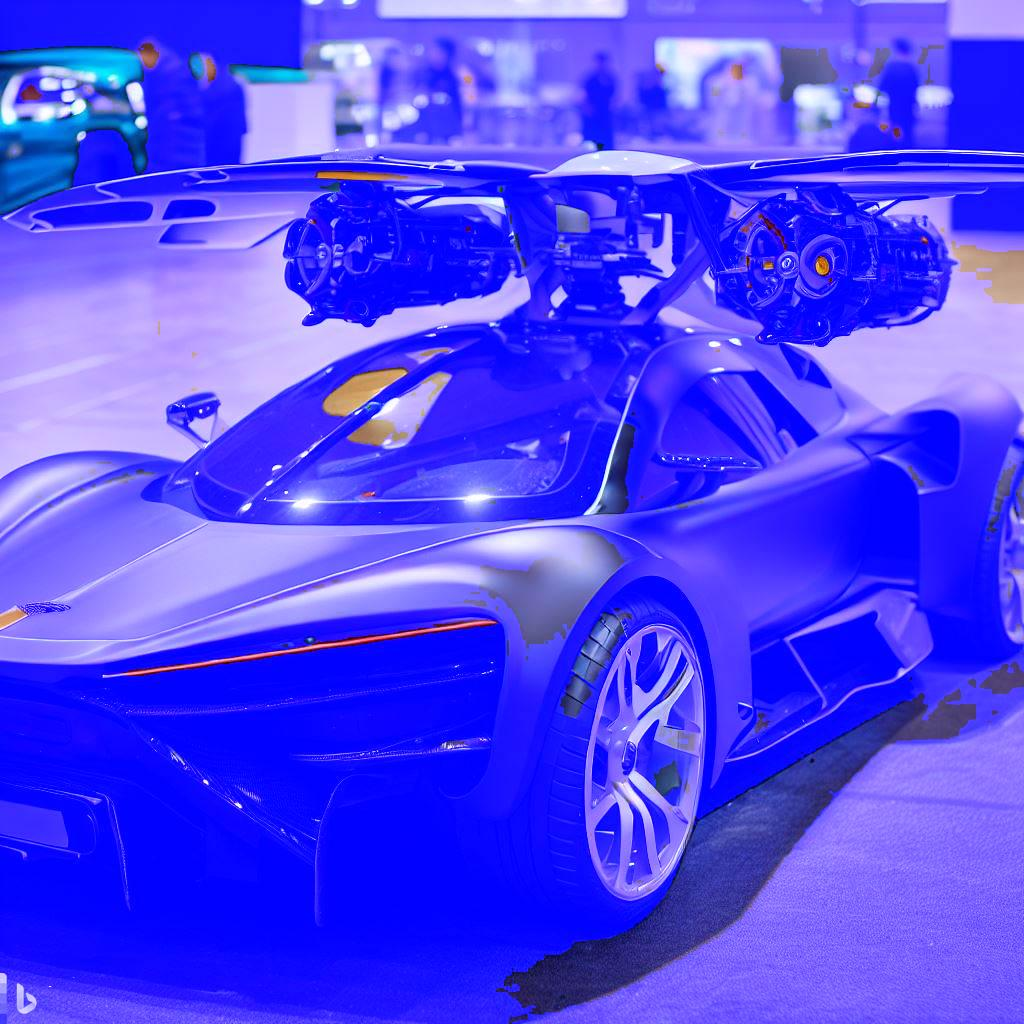
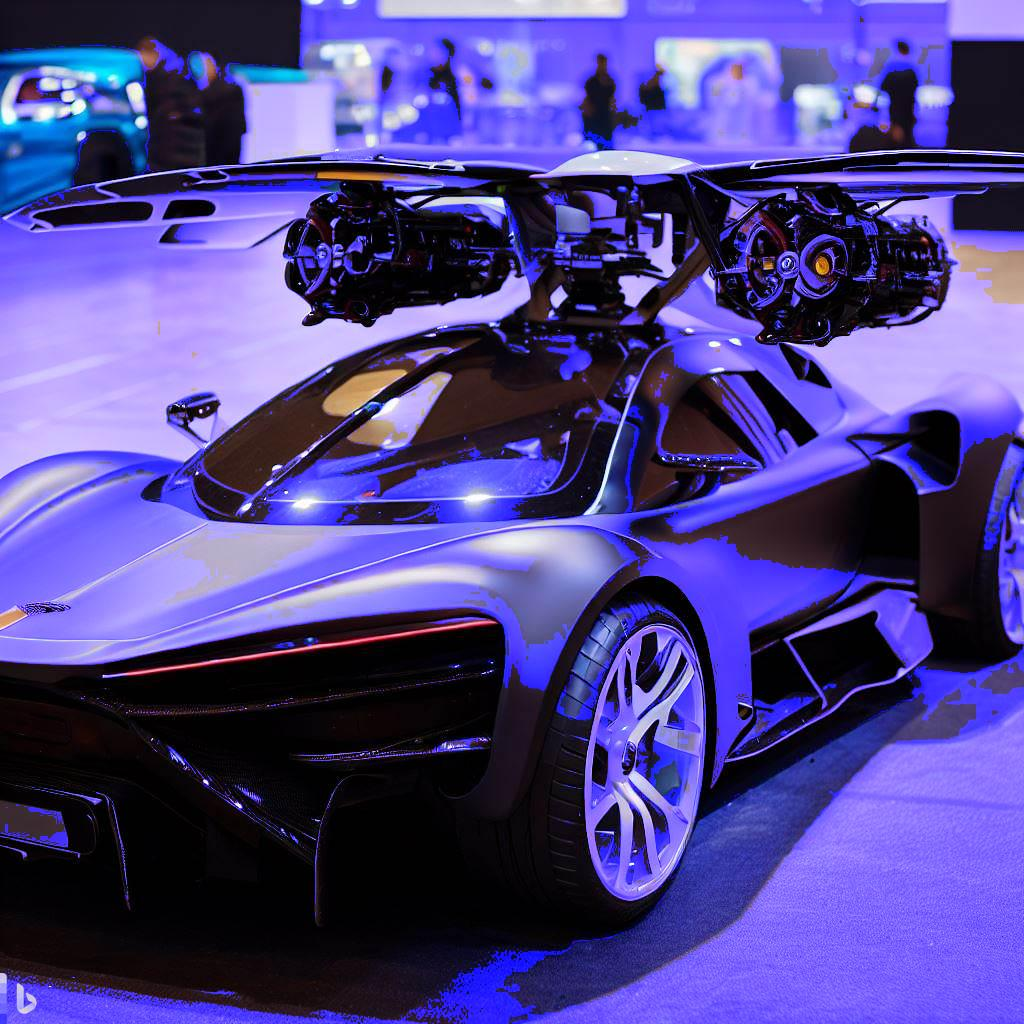
Add files via upload

diff --git a/image13.py b/image13.py
@@ -28,7 +28,7 @@ for x in range(width):
             gb=-gb
         
         
-        if rb<50 and rg<50  and gb<50:
+        if rb<50 and rg<50  and gb<50 and b>50 and b<200:
             image.putpixel((x, y), (r,g,255 ))
 
 # salva a imagem modificada
